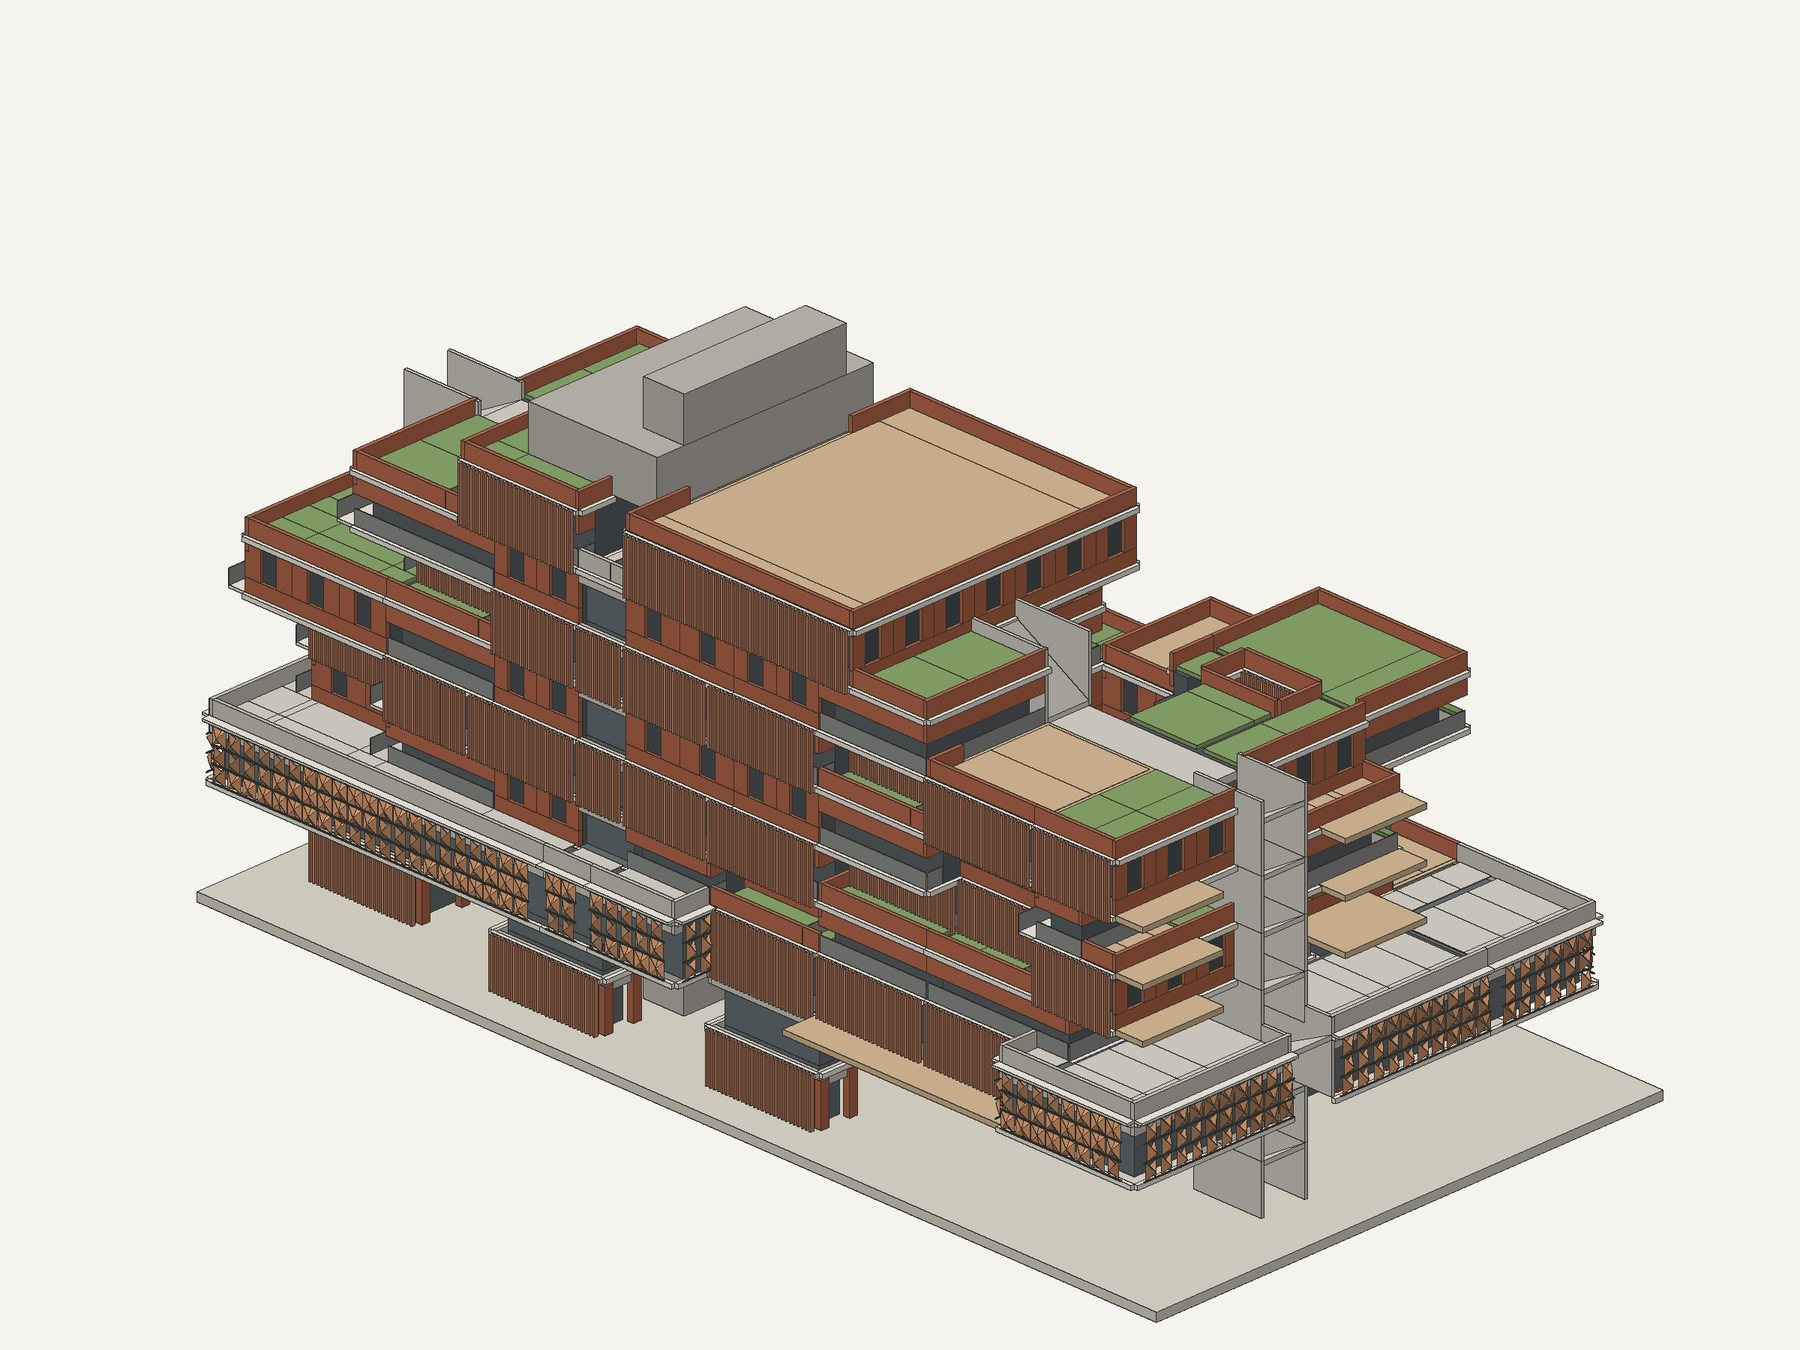
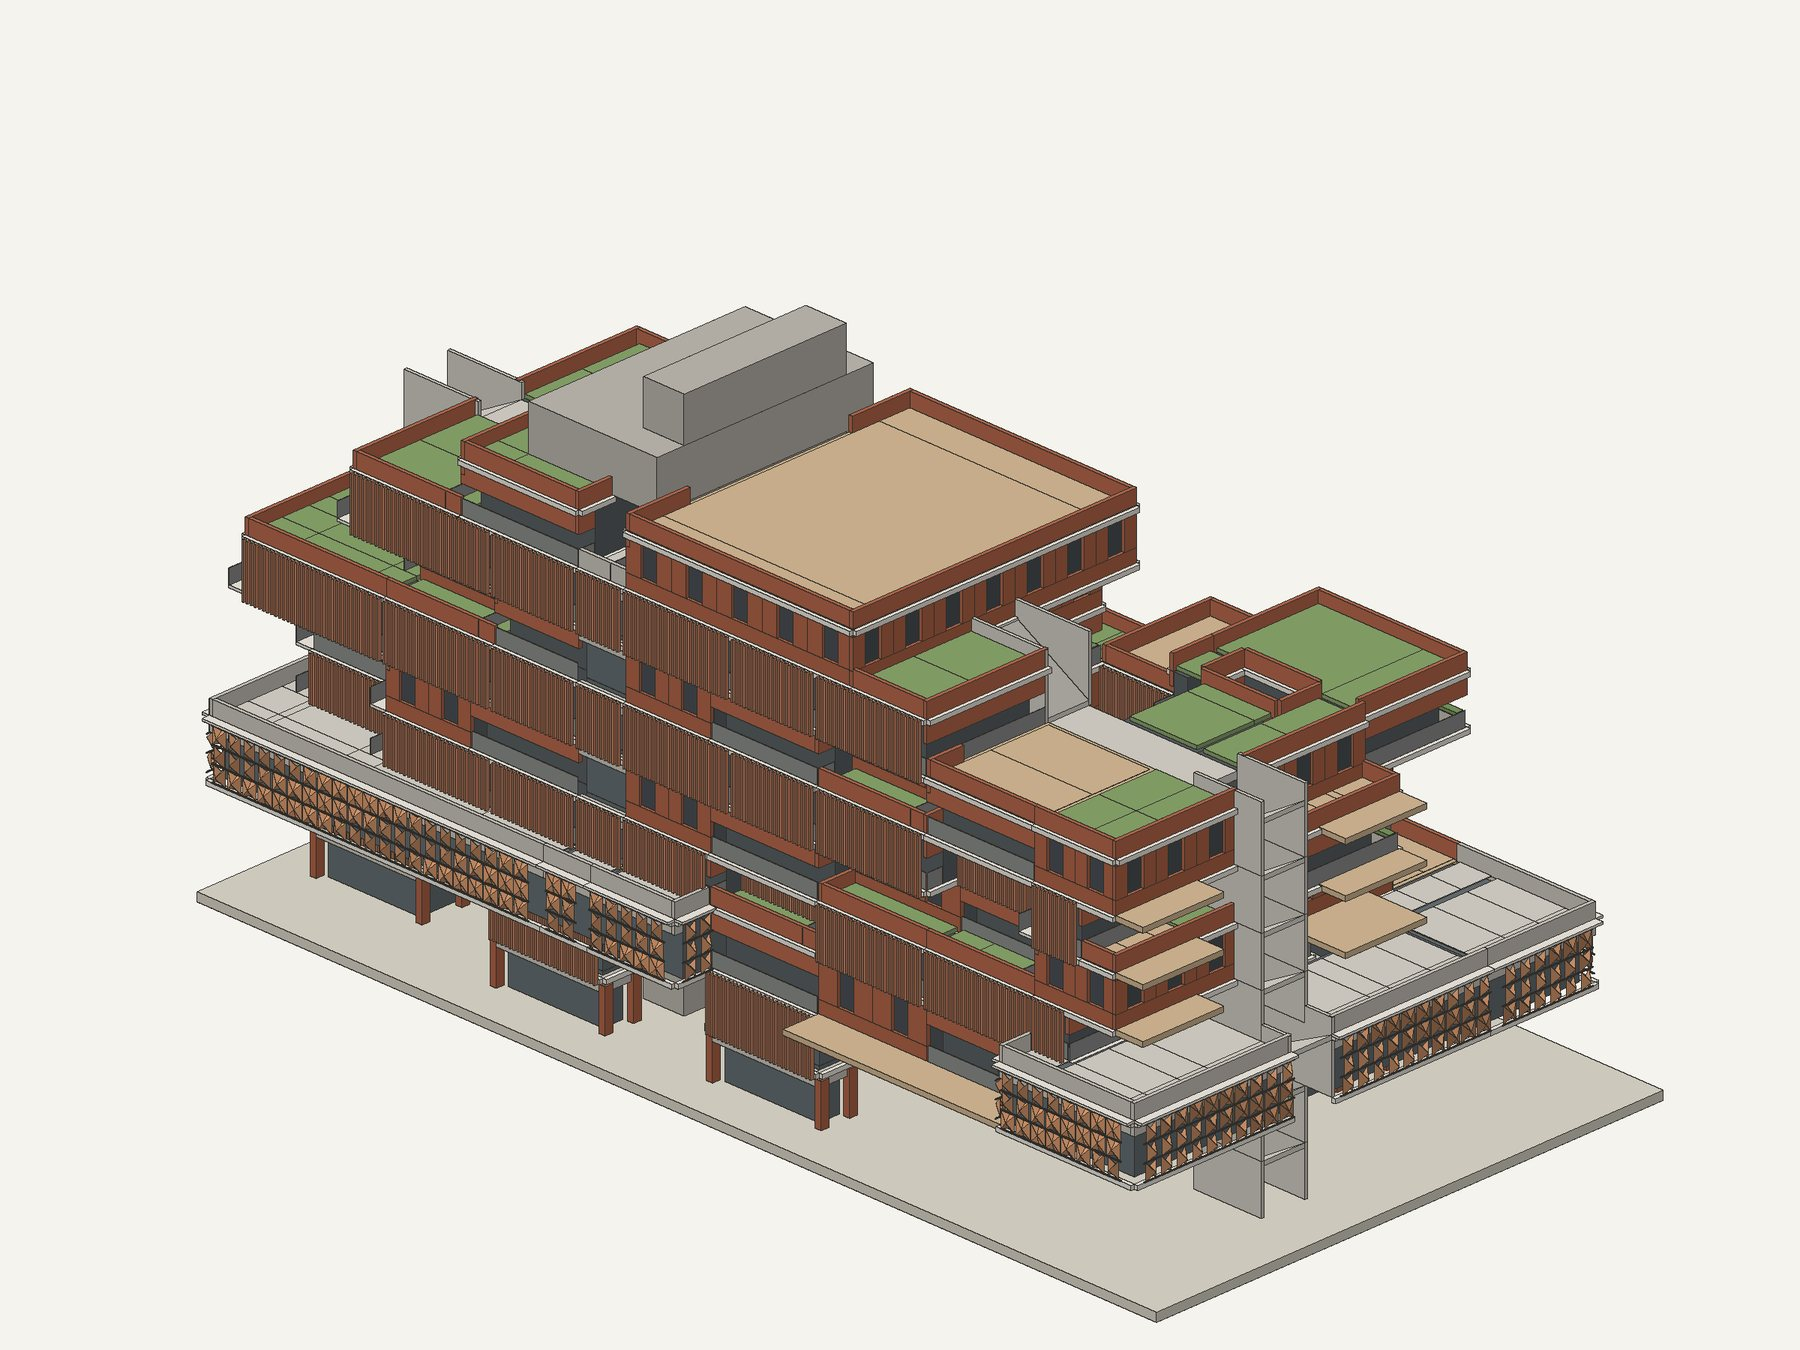
La Ola: celosia occidental en pisos pares
Claude-Session: https://claude.ai/code/session_01Rs9TY9ki2YSVtRsSTGuvtX

diff --git a/la-ola/index.html b/la-ola/index.html
@@ -276,12 +276,12 @@ footer{border-top:1px solid var(--rule);padding-top:16px;display:flex;flex-wrap:
 </section>
 
 <section class="sec">
-  <div class="lado"><span class="rot">La fachada</span><h2>Bandejas de ladrillo</h2><p class="nota">Cada módulo es una bandeja: banda de ladrillo arriba, vidrio retirado abajo y la cubierta libre como terraza o jardín. La mitad de los módulos son cajas de ladrillo con ventana de antepecho. Occidente alterna por pisos: los impares llevan un velo corrido de celosía de ladrillo, de placa a placa y hasta sobre las patas del primer piso, que filtra el sol de la tarde; los pares quedan abiertos. Oriente lleva jardinera, el norte una terraza fina hacia el río. Lo común se viste distinto: el piso de todos lleva la fachada origami, módulos de seis triángulos que se pliegan sobre rieles (más cerrados al occidente, abiertos hacia el río), y el primer piso abre a la Carrera 8 con pilares de ladrillo y un alero corrido.</p></div>
+  <div class="lado"><span class="rot">La fachada</span><h2>Bandejas de ladrillo</h2><p class="nota">Cada módulo es una bandeja: banda de ladrillo arriba, vidrio retirado abajo y la cubierta libre como terraza o jardín. La mitad de los módulos son cajas de ladrillo con ventana de antepecho. Occidente alterna por pisos: los pares llevan un velo corrido de celosía de ladrillo, de placa a placa y hasta sobre las patas del segundo piso, que filtra el sol de la tarde; los impares quedan abiertos. Oriente lleva jardinera, el norte una terraza fina hacia el río. Lo común se viste distinto: el piso de todos lleva la fachada origami, módulos de seis triángulos que se pliegan sobre rieles (más cerrados al occidente, abiertos hacia el río), y el primer piso abre a la Carrera 8 con pilares de ladrillo y un alero corrido.</p></div>
   <div class="cuerpo">
     <figure class="plano"><img src="img/v4/fachada-so.jpg" alt="Axonometría desde el suroccidente: módulos de ladrillo con logias, velos de celosía y cubiertas verdes" loading="lazy"><figcaption>Desde el suroccidente</figcaption></figure>
     <div class="galeria">
       <figure><img src="img/v4/fachada-se.jpg" alt="Axonometría desde el suroriente, hacia la calle" loading="lazy" style="aspect-ratio:auto;object-fit:contain"><figcaption>Suroriente · la calle</figcaption></figure>
-      <figure><img src="img/v4/alzado-occidente.jpg" alt="Alzado occidental: pisos impares con velo de celosía de ladrillo y pisos pares abiertos" loading="lazy" style="aspect-ratio:auto;object-fit:contain"><figcaption>Alzado occidental · celosía en pisos impares</figcaption></figure>
+      <figure><img src="img/v4/alzado-occidente.jpg" alt="Alzado occidental: pisos pares con velo de celosía de ladrillo y pisos impares abiertos" loading="lazy" style="aspect-ratio:auto;object-fit:contain"><figcaption>Alzado occidental · celosía en pisos pares</figcaption></figure>
       <figure><img src="img/v4/fachada-no.jpg" alt="Axonometría desde el noroccidente, hacia el río Fucha" loading="lazy" style="aspect-ratio:auto;object-fit:contain"><figcaption>Noroccidente · el río</figcaption></figure>
     </div>
   </div>
